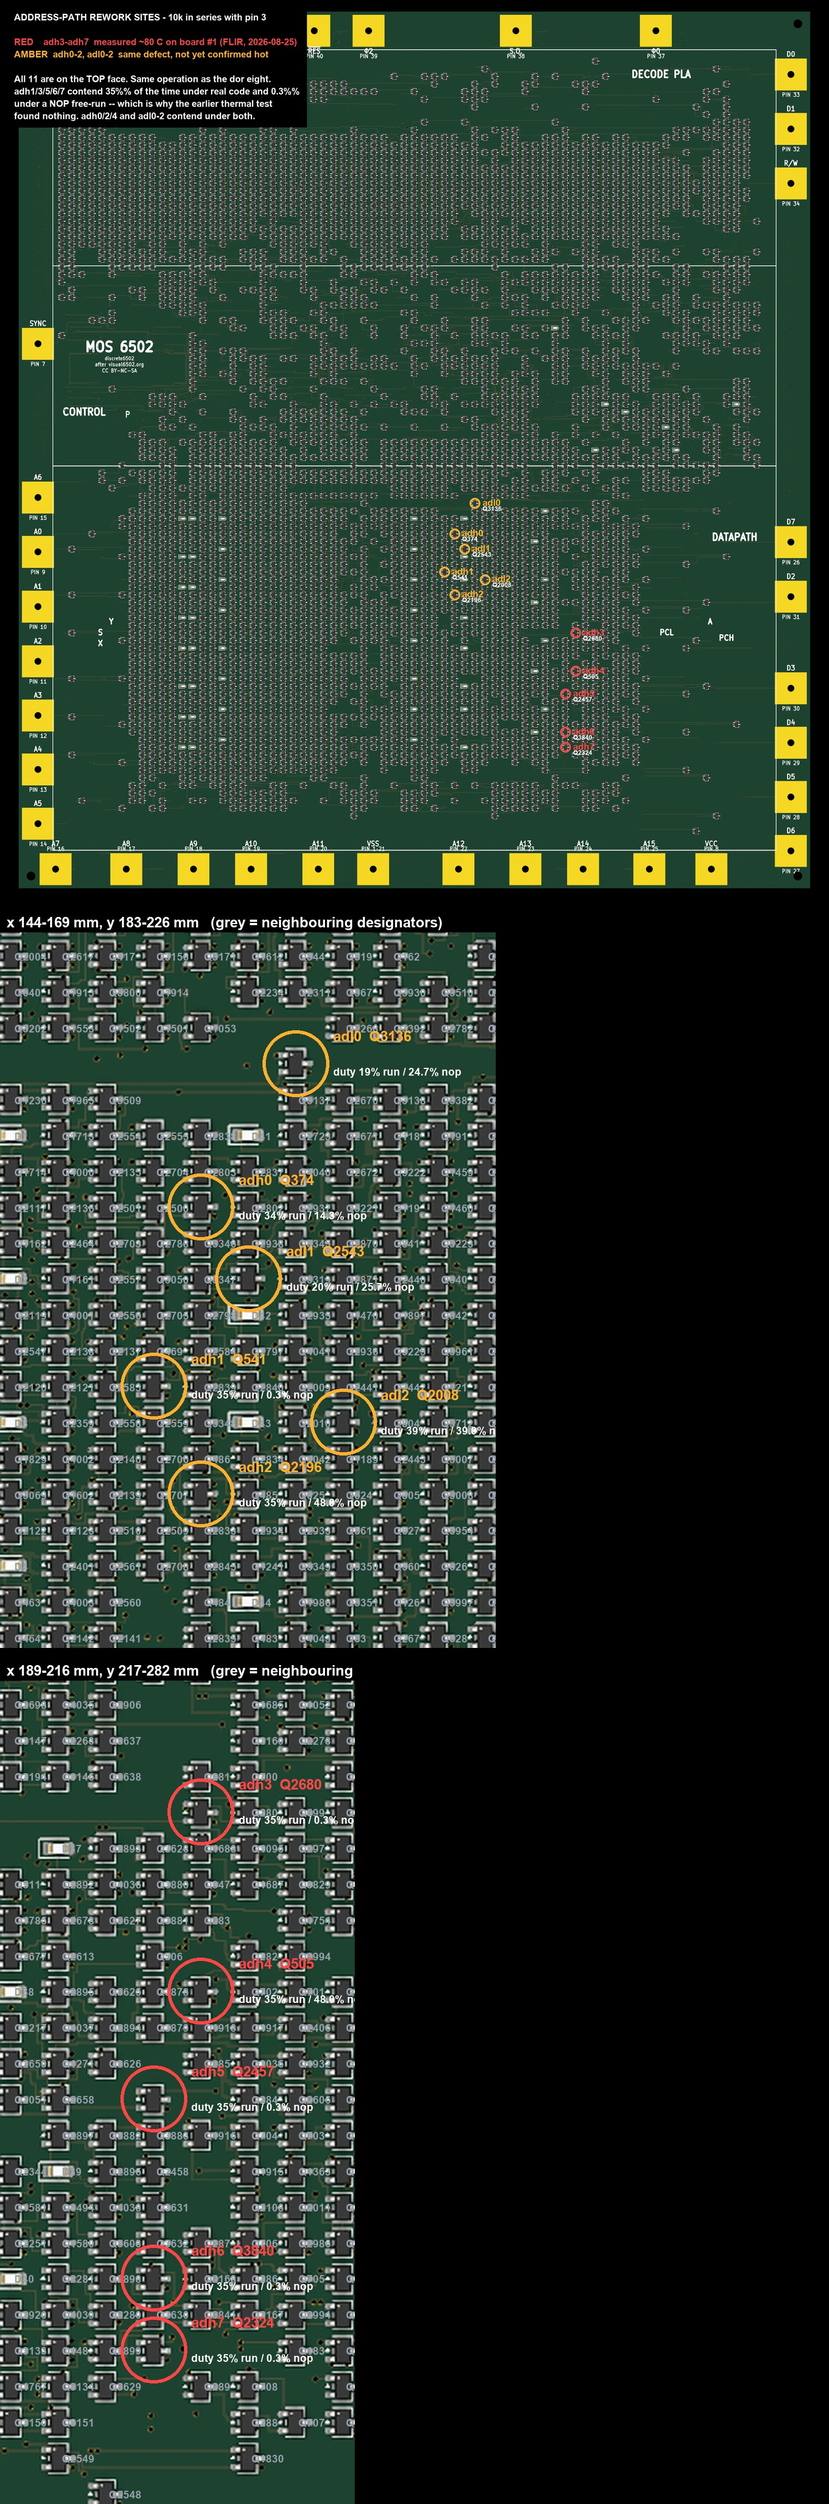
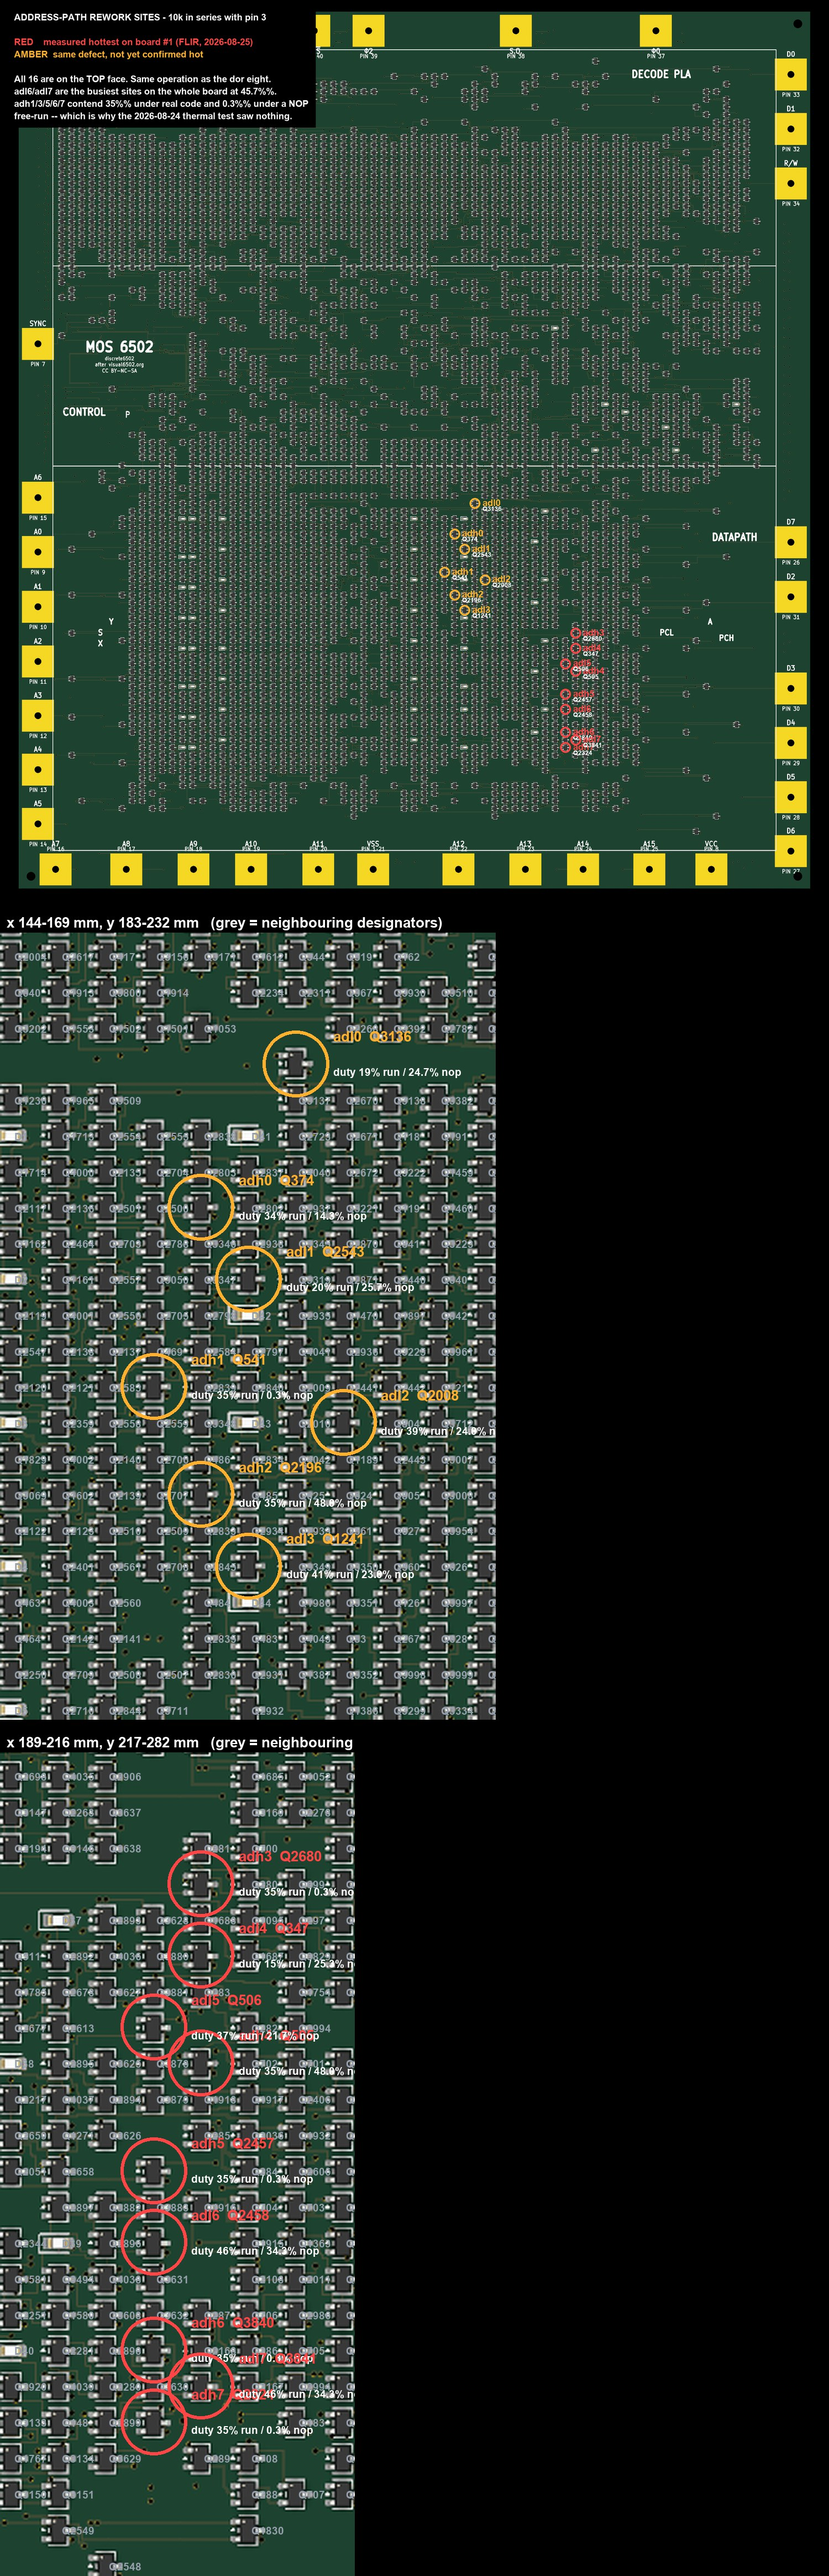
The FLIR found sites my filter had excluded; remove the filter
Board #1 showed adl4..adl7 among the hottest parts. contention_duty.py
had dropped all four before measuring them, on the grounds that they have
no pull-down and therefore cannot contend. They have no pull-down FET
sitting directly between the net and vss -- but they are pulled low
through a pass-gate chain, and that contends with the cclk precharge
device exactly the same way.

The FETs the filter did find on those nets are gated BY adl4..adl7, i.e.
loads those nets drive rather than pull-downs of them. That is the same
"counted FETs gated by X rather than on X" error already recorded against
cclk on 2026-08-01, repeated.

The detector itself was always right -- it follows conduction groups, so
pass-gate paths were never a problem for it. Only the pre-filter was
wrong, so all 164 VCC-side sites are now measured.

The result vindicates the camera over the model: adl6 and adl7 measure
45.7%, the two busiest sites on the whole board, above every adh and every
dor. adl3 (40.7%) and adl2 (39.0%) are also above the adh group and sit in
the other cluster, where nobody has pointed a camera yet.

Rework map regenerated for 16 sites, nine of them now confirmed hot.

diff --git a/tools/mark_rework_adh.py b/tools/mark_rework_adh.py
@@ -1,5 +1,5 @@
 #!/usr/bin/env python3
-"""Where the eleven address-path rework sites are, so you can find them by eye.
+"""Where the sixteen address-path rework sites are, so you can find them by eye.
 
 The 2026-08-25 thermal finding: adh3..adh7 run at ~80 C on board #1 while it
 executes real code. tools/contention_duty.py measured why -- adh1/3/5/6/7 contend
@@ -9,7 +9,7 @@ nothing. adh0/2/4 and adl0/1/2 contend under both.
 
 The fix is the operation already proven on the dor eight: 10k in series with
 pin 3. This draws the map for it -- an overview plus a zoomed panel per cluster,
-because the eleven sit in two groups 40 mm apart and neither is findable by
+because the sixteen sit in two groups 40 mm apart and neither is findable by
 counting.
 
 Everything is derived, never drawn: positions from the fabricated board, roles
@@ -39,10 +39,13 @@ DUTY = {
     "adh0": (33.7, 14.3), "adh1": (35.0, 0.3), "adh2": (35.3, 48.0),
     "adh3": (35.0, 0.3), "adh4": (35.3, 48.0), "adh5": (35.0, 0.3),
     "adh6": (35.0, 0.3), "adh7": (35.0, 0.3),
-    "adl0": (19.3, 24.7), "adl1": (20.0, 25.7), "adl2": (39.0, 39.0),
+    "adl0": (19.3, 24.7), "adl1": (20.0, 25.7), "adl2": (39.0, 24.0),
+    "adl3": (40.7, 23.0), "adl4": (15.3, 25.3), "adl5": (37.0, 21.7),
+    "adl6": (45.7, 34.3), "adl7": (45.7, 34.3),
 }
 # Measured hot with a FLIR on board #1, 2026-08-25, at ~80 C.
-CONFIRMED_HOT = {"adh3", "adh4", "adh5", "adh6", "adh7"}
+CONFIRMED_HOT = {"adh3", "adh4", "adh5", "adh6", "adh7",
+                 "adl4", "adl5", "adl6", "adl7"}
 
 RED = (255, 70, 70)
 AMBER = (255, 176, 46)
@@ -118,13 +121,13 @@ def main():
 
     lg = ["ADDRESS-PATH REWORK SITES - 10k in series with pin 3",
           "",
-          "RED    adh3-adh7  measured ~80 C on board #1 (FLIR, 2026-08-25)",
-          "AMBER  adh0-2, adl0-2  same defect, not yet confirmed hot",
+          "RED    measured hottest on board #1 (FLIR, 2026-08-25)",
+          "AMBER  same defect, not yet confirmed hot",
           "",
-          "All 11 are on the TOP face. Same operation as the dor eight.",
-          "adh1/3/5/6/7 contend 35%% of the time under real code and 0.3%%",
-          "under a NOP free-run -- which is why the earlier thermal test",
-          "found nothing. adh0/2/4 and adl0-2 contend under both."]
+          "All 16 are on the TOP face. Same operation as the dor eight.",
+          "adl6/adl7 are the busiest sites on the whole board at 45.7%%.",
+          "adh1/3/5/6/7 contend 35%% under real code and 0.3%% under a NOP",
+          "free-run -- which is why the 2026-08-24 thermal test saw nothing."]
     bw = max(d.textlength(s, font=f) for s in lg) + 40
     bh = len(lg) * (f.size + 9) + 26
     d.rectangle([20, 20, 20 + bw, 20 + bh], fill=(0, 0, 0))

diff --git a/tools/contention_duty.py b/tools/contention_duty.py
@@ -74,7 +74,15 @@ def build_indexed():
             pulldn[b if a in ("vss", "vcc") else a] += 1
     for s in sites:
         s["pulldowns"] = pulldn[s["net"]]
-    return sim, [s for s in sites if s["pulldowns"]], names
+    # Do NOT filter on pulldowns. A net with no FET sitting directly between it
+    # and vss can still be pulled low THROUGH A PASS-GATE CHAIN -- adl4..adl7 are
+    # exactly that, and they measured ~80 C on board #1 while an earlier version
+    # of this script had excluded them as unable to contend. The detector below
+    # follows conduction groups, so it handles those paths correctly; it was only
+    # this filter that was wrong. (The FETs that filter *did* find on adl4..adl7
+    # are gated BY those nets, i.e. loads they drive -- the same "gated by X, not
+    # on X" error recorded against cclk on 2026-08-01.)
+    return sim, sites, names
 
 
 def measure(halves, workload):
